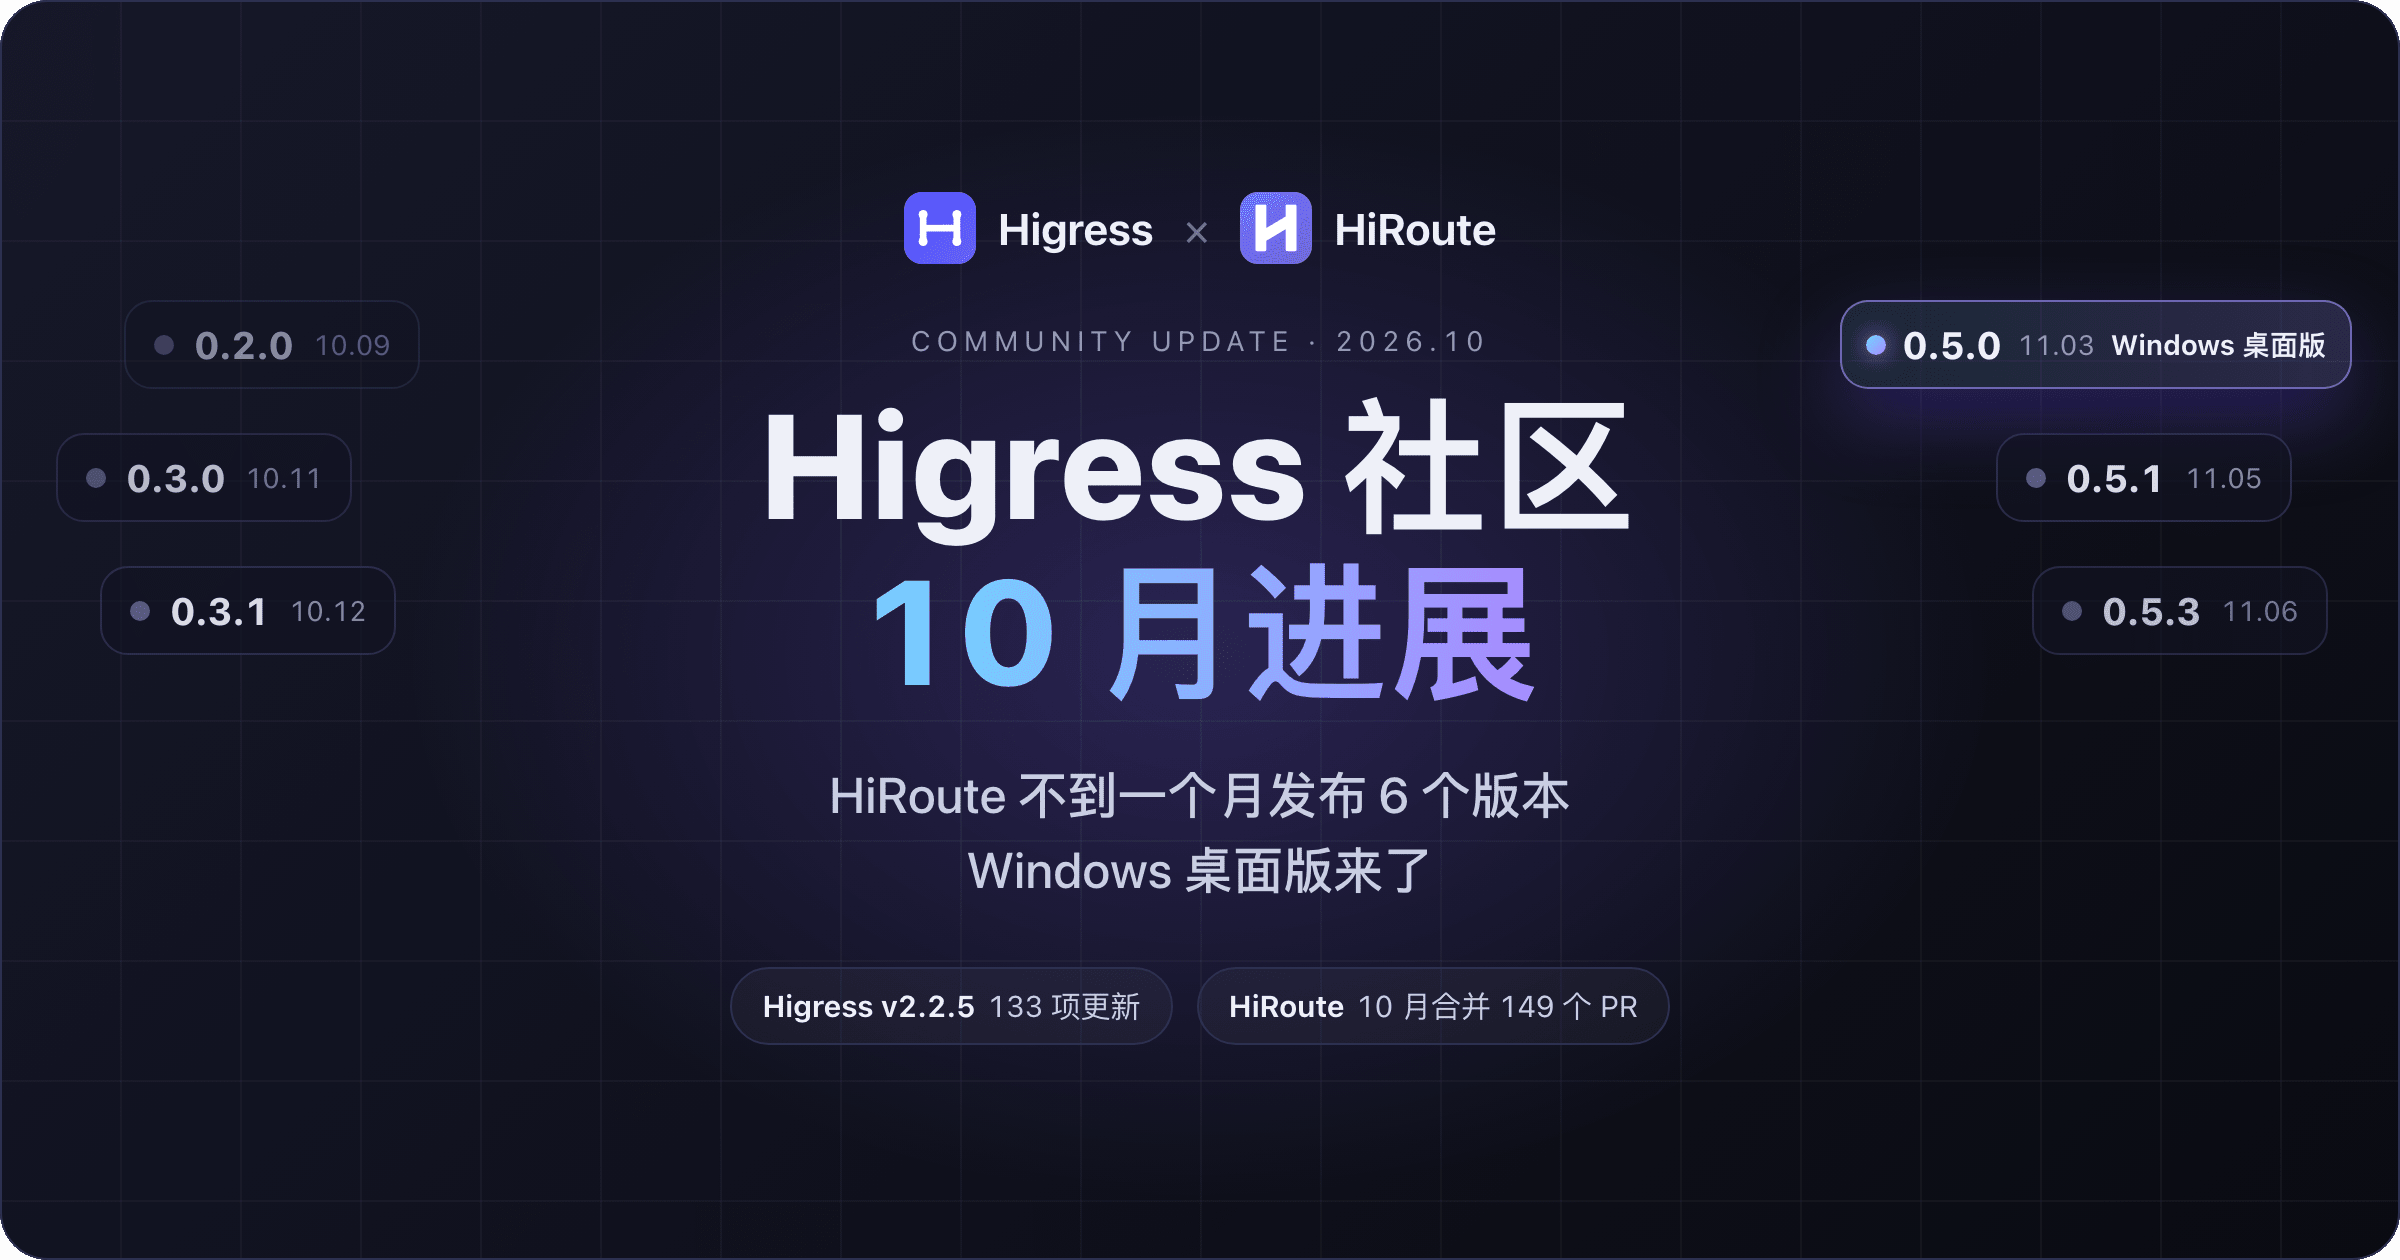
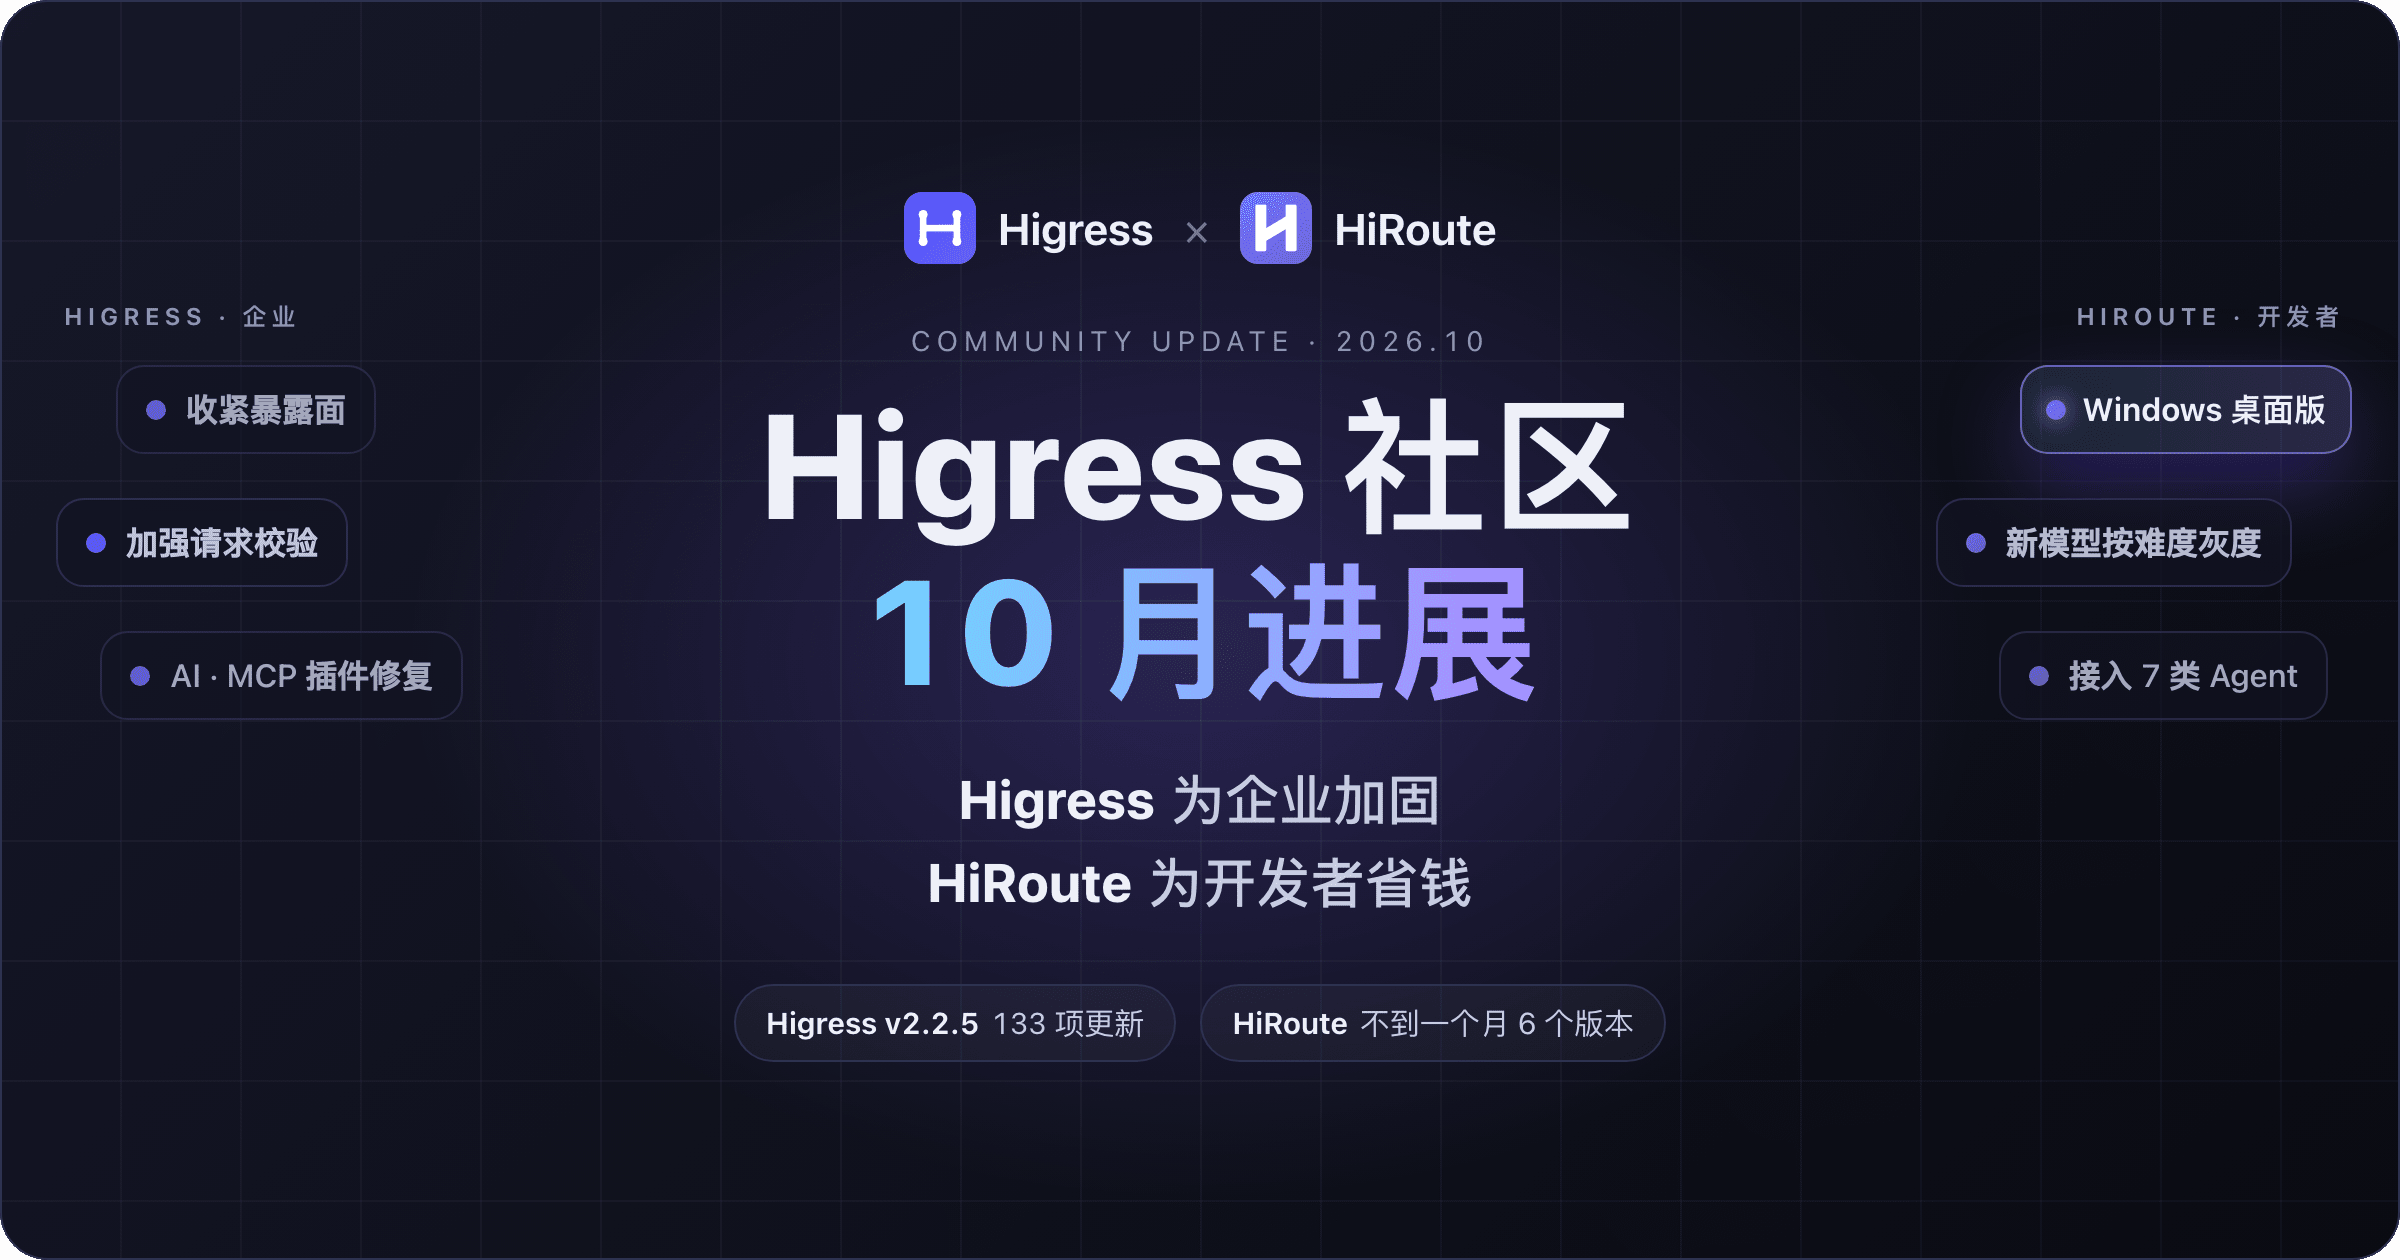
docs(blog): reframe the October update around enterprise hardening and developer savings
Retitle the post to "Higress 为企业加固，HiRoute 为开发者省钱" and lead the
Higress section with the post-release security and stability work. Merge
the HiRoute introduction and progress sections, and rewrite the new-model
section around rolling out cheap models by difficulty as trust builds in
real work, matching the published trial guide thresholds. Refresh the
cover, the release timeline wording and the homepage news card.

diff --git a/src/i18n/en.ts b/src/i18n/en.ts
@@ -501,7 +501,7 @@ export default {
 
 	// Home News
 	'home.news.1.title': 'October Community Update',
-	'home.news.1.content': 'HiRoute shipped six releases in under a month, now with a Windows desktop app.',
+	'home.news.1.content': 'Higress hardens for enterprises; HiRoute saves developers money.',
 	'home.news.2.title': 'Higress v2.2.4',
 	'home.news.2.content': 'Key changes: new MCP capabilities and Gateway API inference extensions.',
 	'home.news.3.title': 'MCP Server Update',

diff --git a/src/i18n/zh-cn.ts b/src/i18n/zh-cn.ts
@@ -507,7 +507,7 @@ export default {
 
 	// 首页新闻
 	'home.news.1.title': '社区 10 月进展',
-	'home.news.1.content': 'HiRoute 不到一个月发布 6 个版本，Windows 桌面版来了',
+	'home.news.1.content': 'Higress 为企业加固，HiRoute 为开发者省钱',
 	'home.news.2.title': 'Higress v2.2.4',
 	'home.news.2.content': '从新版 MCP 到 Gateway API 推理扩展，读懂关键变化',
 	'home.news.3.title': 'MCP Server 更新',
